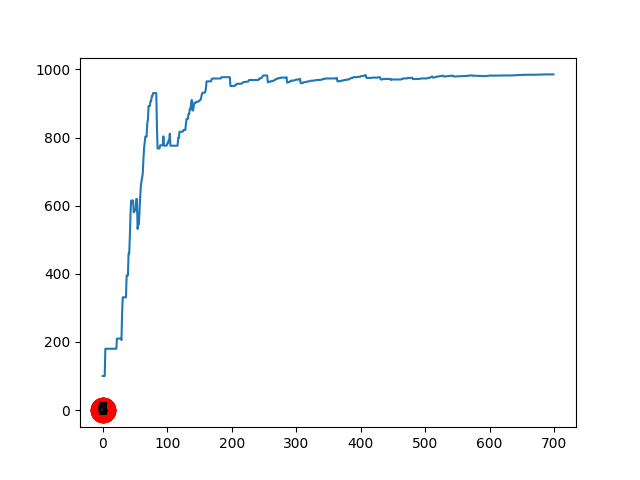
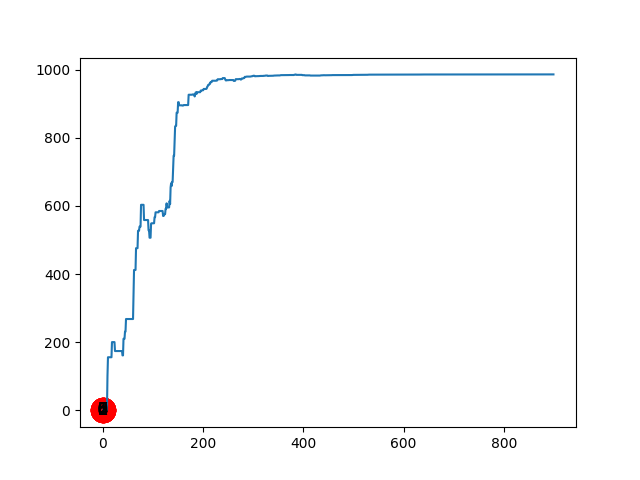
final 9

diff --git a/lesson8/lesson8.2.py b/lesson8/lesson8.2.py
@@ -91,7 +91,7 @@ update(initial_state, action, gamma)
 
 # Training
 scores = []
-for i in range(700):
+for i in range(900):
     current_state = np.random.randint(0, int(Q.shape[0]))
     available_act = available_actions(current_state)
     action = sample_next_action(available_act)
